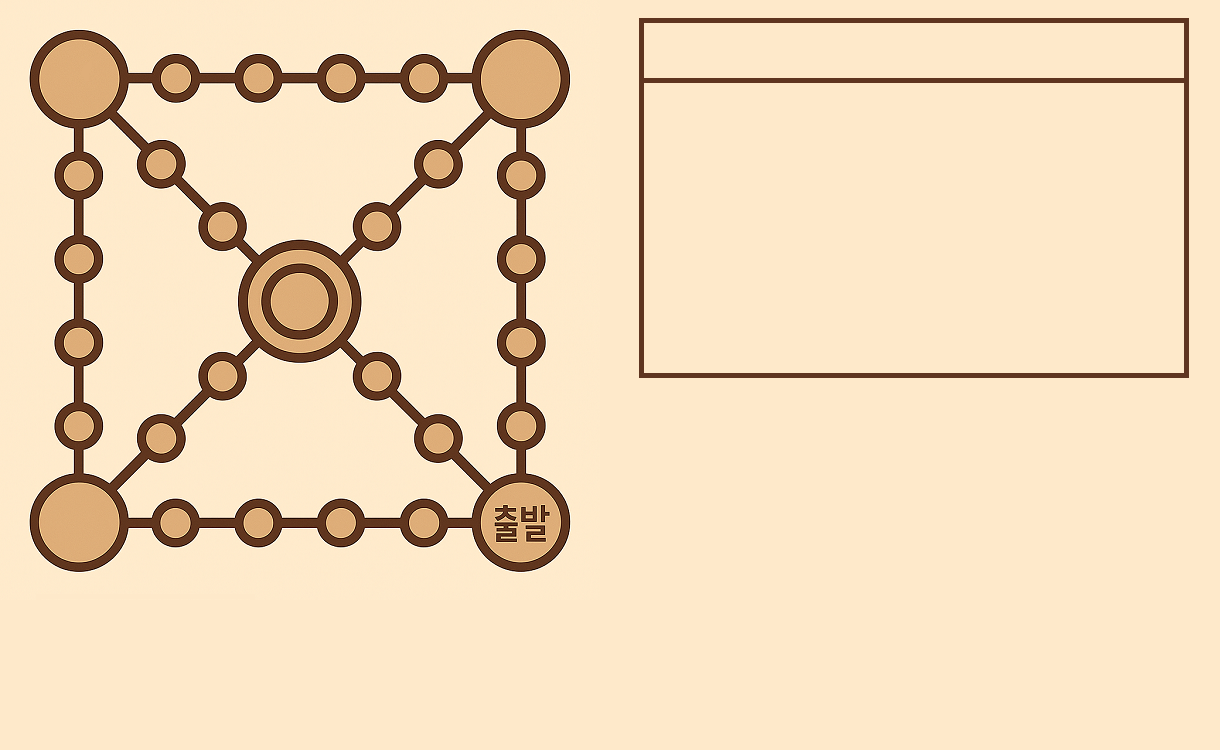
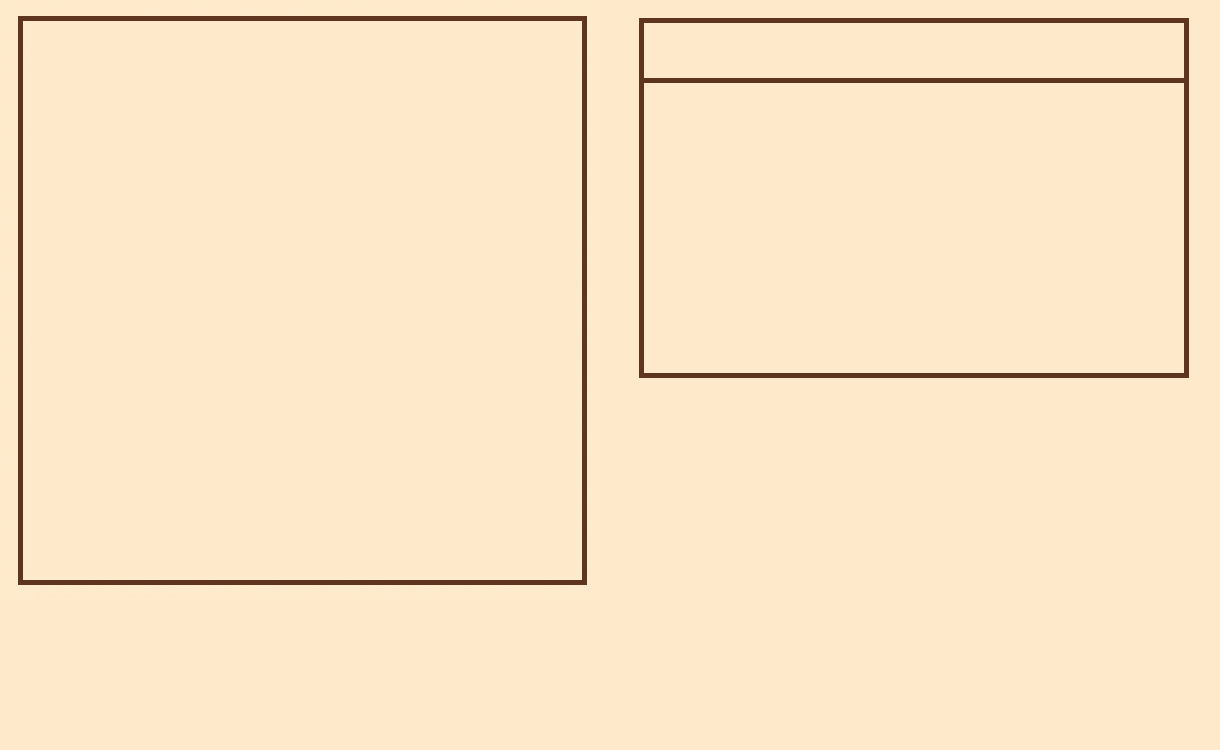
윷놀이판 스위치 및 말판기능 추가

Changed region(s): [[0.0, 0.0, 0.4984, 0.7973]]

diff --git a/src/Yutnori/View/GameScreen.java b/src/Yutnori/View/GameScreen.java
@@ -3,7 +3,7 @@ import java.awt.*;
 
 public class GameScreen extends JPanel {
 
-    public GameScreen(int playerCount) {
+    public GameScreen(int playerNum, int horseNum, String boardType) {
         setLayout(null);
         setPreferredSize(new Dimension(1200, 750));
 
@@ -17,18 +17,39 @@ public class GameScreen extends JPanel {
         combinedLabel.setBounds(0, 0, 1200, 750);
         layeredPane.add(combinedLabel, Integer.valueOf(0));
 
+        // boardType에 따른 게임판 이미지
+        String boardImagePath;
+        switch (boardType) {
+            case "사각형":
+                boardImagePath = "CAU_SoftwareEngineering/src/Yutnori/View/picture/rectYutBoard.png";
+                break;
+            case "오각형":
+                boardImagePath = "CAU_SoftwareEngineering/src/Yutnori/View/picture/pentaYutBoard.png";
+                break;
+            case "육각형":
+                boardImagePath = "CAU_SoftwareEngineering/src/Yutnori/View/picture/hexaYutBoard.png";
+                break;
+            default:
+                boardImagePath = "CAU_SoftwareEngineering/src/Yutnori/View/picture/rectYutBoard.png";
+        }
+
+        ImageIcon boardIcon = new ImageIcon(boardImagePath);
+        JLabel boardLabel = new JLabel(boardIcon);
+        boardLabel.setBounds(20, 25, boardIcon.getIconWidth(), boardIcon.getIconHeight());
+        layeredPane.add(boardLabel, Integer.valueOf(1));
+
         // 우상단 mo 이미지
         ImageIcon moIcon = new ImageIcon("CAU_SoftwareEngineering/src/Yutnori/View/picture/mo.png");
         JLabel moLabel = new JLabel(moIcon);
         moLabel.setBounds(690, 105, moIcon.getIconWidth(), moIcon.getIconHeight());
-        layeredPane.add(moLabel, Integer.valueOf(1));
+        layeredPane.add(moLabel, Integer.valueOf(2));
 
         // 던지기 버튼
         JButton throwButton = new JButton("던지기");
         throwButton.setBounds(850, 320, 100, 50);
         layeredPane.add(throwButton, Integer.valueOf(2));
 
-        // 우측 하단 team 이미지들 (선택된 playerCount만큼만 표시)
+        // 팀 위치
         int[][] teamPositions = {
             {625, 400}, // team1
             {935, 400}, // team2
@@ -36,13 +57,33 @@ public class GameScreen extends JPanel {
             {935, 550}  // team4
         };
 
-        for (int i = 1; i <= playerCount; i++) {
+        // 각 팀 이미지 추가 + 말 배치
+        for (int i = 1; i <= playerNum; i++) {
+            // 팀 이미지
             ImageIcon teamIcon = new ImageIcon("CAU_SoftwareEngineering/src/Yutnori/View/picture/team" + i + ".png");
             JLabel teamLabel = new JLabel(teamIcon);
             int x = teamPositions[i - 1][0];
             int y = teamPositions[i - 1][1];
             teamLabel.setBounds(x, y, teamIcon.getIconWidth(), teamIcon.getIconHeight());
             layeredPane.add(teamLabel, Integer.valueOf(1));
+
+            // 말 아이콘 불러오기 (반 크기로 줄임)
+            ImageIcon malIcon = new ImageIcon("CAU_SoftwareEngineering/src/Yutnori/View/picture/mal" + i + ".png");
+            int malWidth = malIcon.getIconWidth() / 2;
+            int malHeight = malIcon.getIconHeight() / 2;
+            Image scaledImage = malIcon.getImage().getScaledInstance(malWidth, malHeight, Image.SCALE_SMOOTH);
+            malIcon = new ImageIcon(scaledImage);
+
+            // 말 배치 (좌우 일렬)
+            int malStartX = x + 85;  // 시작 위치
+            int malStartY = y + 55;  // 팀 아래쪽에 배치
+            int malSpacing = malWidth;  // 말 간격
+
+            for (int j = 0; j < horseNum; j++) {
+                JLabel malLabel = new JLabel(malIcon);
+                malLabel.setBounds(malStartX + j * malSpacing, malStartY, malWidth, malHeight);
+                layeredPane.add(malLabel, Integer.valueOf(2));
+            }
         }
 
         add(layeredPane);

diff --git a/src/Yutnori/View/StartScreen.java b/src/Yutnori/View/StartScreen.java
@@ -4,9 +4,9 @@ import java.awt.event.ActionEvent;
 import java.awt.event.ActionListener;
 
 public class StartScreen extends JPanel {
-    private JComboBox<Integer> playerCombo;
-    private JComboBox<Integer> horseCombo;
-    private JComboBox<String> boardCombo;
+    private JComboBox<Integer> playerNum;
+    private JComboBox<Integer> horseNum;
+    private JComboBox<String> boardType;
 
     public StartScreen(MainFrame mainFrame) {
         setLayout(null);
@@ -19,19 +19,19 @@ public class StartScreen extends JPanel {
         add(backgroundLabel);
 
         // 인원수 선택
-        playerCombo = new JComboBox<>(new Integer[]{2, 3, 4});
-        playerCombo.setBounds(650, 160, 100, 30);
-        add(playerCombo);
+        playerNum = new JComboBox<>(new Integer[]{2, 3, 4});
+        playerNum.setBounds(650, 160, 100, 30);
+        add(playerNum);
 
         // 말 개수 선택
-        horseCombo = new JComboBox<>(new Integer[]{2, 3, 4, 5});
-        horseCombo.setBounds(650, 300, 100, 30);
-        add(horseCombo);
+        horseNum = new JComboBox<>(new Integer[]{2, 3, 4, 5});
+        horseNum.setBounds(650, 300, 100, 30);
+        add(horseNum);
 
         // 게임판 선택
-        boardCombo = new JComboBox<>(new String[]{"사각형", "오각형", "육각형"});
-        boardCombo.setBounds(650, 440, 100, 30);
-        add(boardCombo);
+        boardType = new JComboBox<>(new String[]{"사각형", "오각형", "육각형"});
+        boardType.setBounds(650, 440, 100, 30);
+        add(boardType);
 
         // 게임 시작 버튼
         JButton startButton = new JButton("게임 시작");
@@ -41,11 +41,11 @@ public class StartScreen extends JPanel {
         startButton.addActionListener(new ActionListener() {
             @Override
             public void actionPerformed(ActionEvent e) {
-                int players = (int) playerCombo.getSelectedItem();
-                int horses = (int) horseCombo.getSelectedItem();
-                String boardType = (String) boardCombo.getSelectedItem();
-                System.out.println("선택 완료 → players: " + players + ", horses: " + horses + ", board: " + boardType);
-                mainFrame.showGameScreen(players, horses, boardType);
+                int players = (int) playerNum.getSelectedItem();
+                int horses = (int) horseNum.getSelectedItem();
+                String board = (String) boardType.getSelectedItem();
+                System.out.println("선택 완료 → players: " + players + ", horses: " + horses + ", board: " + board);
+                mainFrame.showGameScreen(players, horses, board);
             }
         });
 

diff --git a/src/Yutnori/View/MainFrame.java b/src/Yutnori/View/MainFrame.java
@@ -11,6 +11,7 @@ public class MainFrame extends JFrame {
         setLayout(new BorderLayout());
 
         showStartScreen();
+        //showGameScreen(4, 4, "사각형");
     }
 
     // 시작 화면 표시
@@ -24,7 +25,7 @@ public class MainFrame extends JFrame {
     // 게임 화면 표시 (StartScreen에서 호출됨)
     public void showGameScreen(int players, int horses, String boardType) {
         System.out.println("선택된 값 → players: " + players + ", horses: " + horses + ", boardType: " + boardType);
-        GameScreen gameScreen = new GameScreen(players);
+        GameScreen gameScreen = new GameScreen(players, horses, boardType);
         setContentPane(gameScreen);
         revalidate();
         repaint();
